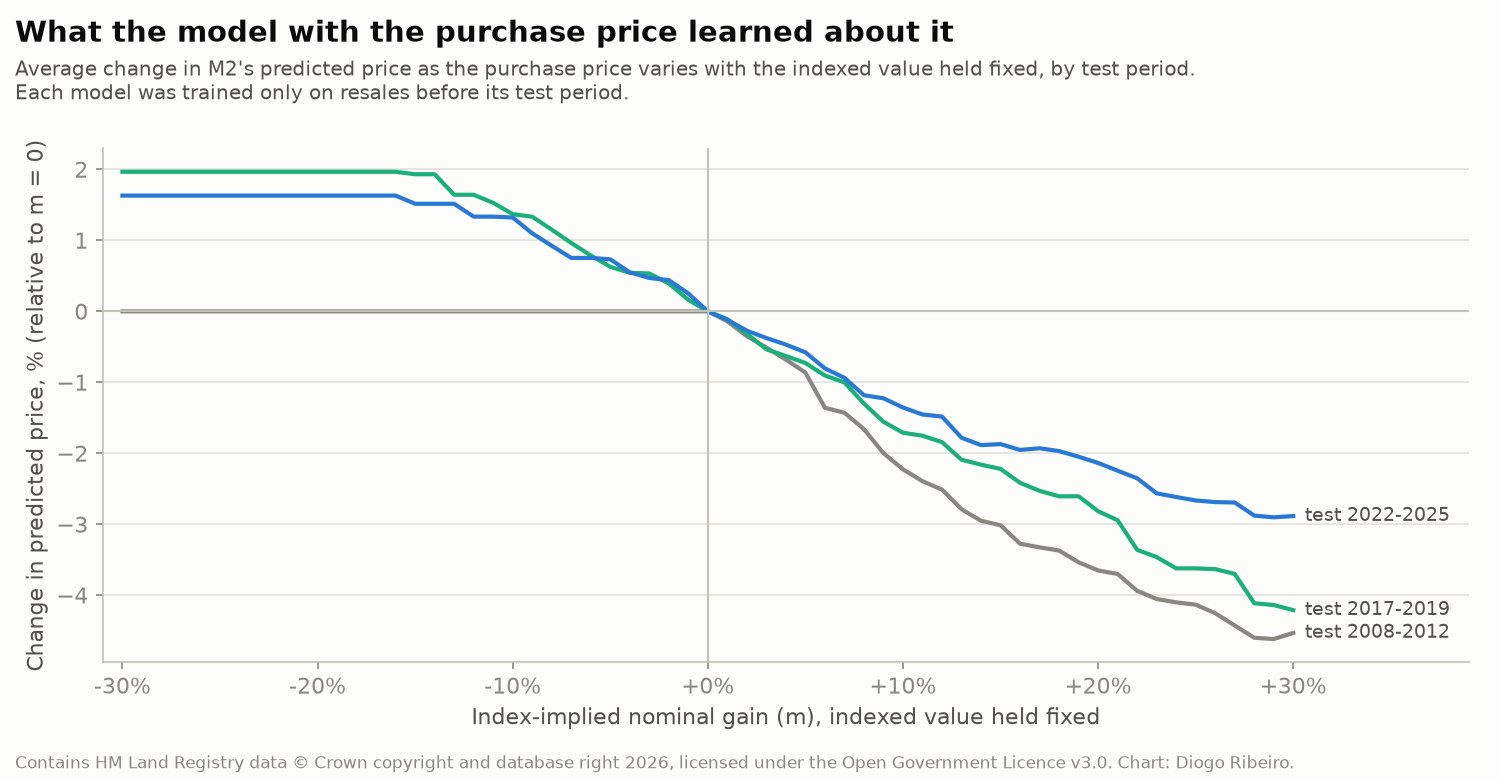
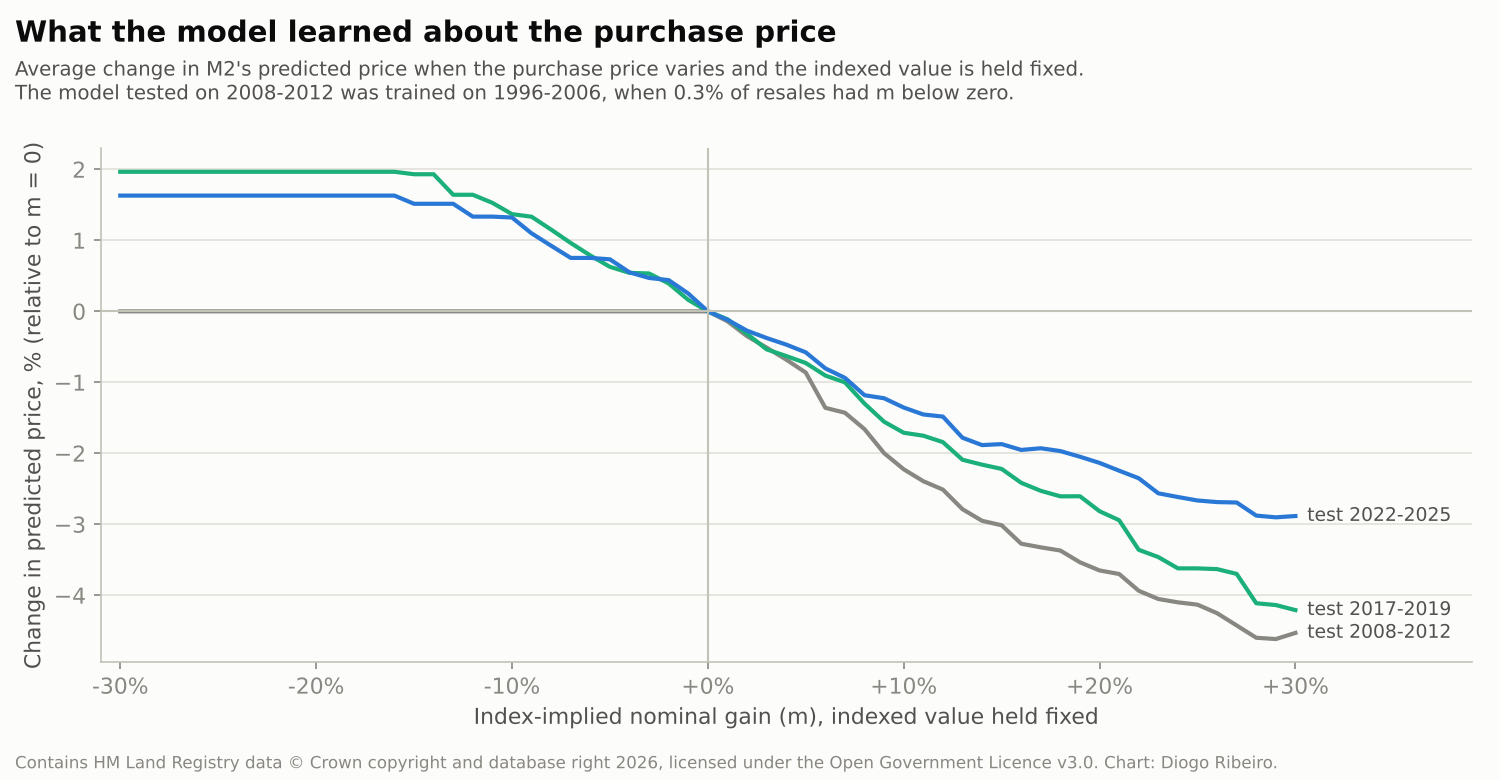
uk-valuation-purchase-price: three figures for the article (error by year, partial dependence on m, probability of a sale below the purchase price); README outputs

diff --git a/uk-valuation-purchase-price/figures.py b/uk-valuation-purchase-price/figures.py
@@ -67,30 +67,33 @@ def _curve(split: str, lo: int = -15, hi: int = 14) -> pd.DataFrame:
 
 
 # ----------------------------------------------------------------------------- fig 1
-def fig1_near_purchase_price():
-    """Observed shares just below, at and just above the old price, against an indexed model."""
-    fig, axes = plt.subplots(1, 2, figsize=(11, 4.8), sharey=True)
-    for ax, split in zip(axes, ["2008-2012", "2022-2025"]):
-        c = _curve(split)
-        ax.plot(c.x, 100 * c.obs_loss_within_2, color=ORANGE, label="Observed: within 2% below")
-        ax.plot(c.x, 100 * c["M0-dist_loss_within_2"], color=ORANGE, linestyle=(0, (4, 3)),
-                linewidth=1.6, label="Indexed valuation: within 2% below")
-        ax.plot(c.x, 100 * (c.obs_gain_within_2 + c.obs_exact), color=BLUE,
-                label="Observed: at or within 2% above")
-        ax.plot(c.x, 100 * c["M0-dist_gain_within_2"], color=BLUE, linestyle=(0, (4, 3)),
-                linewidth=1.6, label="Indexed valuation: within 2% above")
-        ax.set_title(f"Resales {split}", loc="left")
-        _xpct(ax)
-        _grid(ax)
-    axes[0].set_ylabel("Share of resales in each 1% band of m")
-    axes[0].yaxis.set_major_formatter(matplotlib.ticker.FuncFormatter(lambda v, _: f"{v:.0f}%"))
-    h, lab = axes[0].get_legend_handles_labels()
-    fig.legend(h, lab, loc="upper left", bbox_to_anchor=(0.01, 0.9), ncol=2, fontsize=9)
-    _titles(fig, "Sales land just above the purchase price more often than an indexed valuation implies",
-            "Share of resales within 2% below the old price, and at or within 2% above it, by the gain "
-            "the area index implies.\nDashed: the same shares implied by the index plus the spread of "
-            "its errors in the calibration year.")
-    _finish(fig, "fig1_near_purchase_price", top=0.72)
+def fig1_error_by_year():
+    met = pd.read_csv(RES / "metrics.csv")
+    met = met[met.group_type == "year"].assign(year=lambda d: d.group.astype(int))
+    fig, ax = plt.subplots(figsize=(10.5, 5.2))
+    styles = {"M0": (MUTED, "Indexed valuation (M0)"), "M1": (ORANGE, "Correction without m (M1)"),
+              "M2": (BLUE, "Correction with m (M2)")}
+    for split in ["2008-2012", "2017-2019", "2022-2025"]:
+        sub = met[met.split == split]
+        for model, (col, lab) in styles.items():
+            s_ = sub[sub.model == model].sort_values("year")
+            ax.plot(s_.year, 100 * s_.mdae, color=col, marker="o", ms=5,
+                    label=lab if split == "2008-2012" else None)
+        a, b = split.split("-")
+        ax.text((int(a) + int(b)) / 2, 11.75, f"trained to {int(a) - 2}", ha="center",
+                color=INK2, fontsize=9)
+    ax.set_ylabel("Median absolute error, %")
+    ax.set_ylim(8.0, 12.0)
+    ax.set_xticks(range(2008, 2026))
+    ax.set_xticklabels([str(y) if y in (2008, 2010, 2012, 2017, 2019, 2022, 2025) else ""
+                        for y in range(2008, 2026)])
+    ax.set_xlabel("Year of resale (test years only)")
+    _grid(ax)
+    ax.legend(loc="lower left", ncol=3, fontsize=9)
+    _titles(fig, "Out-of-time error of three valuation models, by year of resale",
+            "Each test period is valued by models trained only on earlier resales and calibrated on the "
+            "year before it.")
+    _finish(fig, "fig1_error_by_year", top=0.88)
 
 
 # ----------------------------------------------------------------------------- fig 2
@@ -108,69 +111,45 @@ def fig2_partial_dependence():
     ax.set_ylabel("Change in predicted price, % (relative to m = 0)")
     ax.set_xlim(-31, 39)
     _grid(ax)
-    _titles(fig, "What the model with the purchase price learned about it",
-            "Average change in M2's predicted price as the purchase price varies with the indexed value "
-            "held fixed, by test period.\nEach model was trained only on resales before its test period.")
+    _titles(fig, "What the model learned about the purchase price",
+            "Average change in M2's predicted price when the purchase price varies and the indexed value "
+            "is held fixed.\nThe model tested on 2008-2012 was trained on 1996-2006, when 0.3% of resales "
+            "had m below zero.")
     _finish(fig, "fig2_partial_dependence", top=0.84)
 
 
 # ----------------------------------------------------------------------------- fig 3
 def fig3_loss_probability():
-    fig, axes = plt.subplots(1, 2, figsize=(11, 4.8), sharey=True)
+    fig, axes = plt.subplots(1, 2, figsize=(11, 5.0), sharey=True)
+    lines = [("M0-dist", MUTED, "Indexed valuation + one error spread"),
+             ("M2-dist-h", BLUE, "M2 + error spread by holding period"),
+             ("C2", AQUA, "Classifier trained on earlier resales")]
     for ax, split in zip(axes, ["2008-2012", "2022-2025"]):
         c = _curve(split, -20, 19)
-        obs = 100 * (c.obs_loss_over_2 + c.obs_loss_within_2)
-        dist = 100 * (c["M0-dist_loss_over_2"] + c["M0-dist_loss_within_2"])
-        clf = 100 * (c["C2_loss_over_2"] + c["C2_loss_within_2"])
-        ax.scatter(c.x, obs, s=16, color=INK, zorder=3, label="Observed")
-        ax.plot(c.x, dist, color=BLUE, label="Indexed valuation + error distribution")
-        ax.plot(c.x, clf, color=ORANGE, label="Classifier trained on earlier sales")
+        c = c[c.n >= 1000]
+        ax.scatter(c.x, 100 * (c.obs_loss_over_2 + c.obs_loss_within_2), s=16, color=INK, zorder=3,
+                   label="Observed")
+        for key, col, lab in lines:
+            if f"{key}_loss_over_2" in c:
+                ax.plot(c.x, 100 * (c[f"{key}_loss_over_2"] + c[f"{key}_loss_within_2"]), color=col,
+                        label=lab)
         ax.set_title(f"Resales {split}", loc="left")
         _xpct(ax)
         _grid(ax)
     axes[0].set_ylabel("Share of resales below the purchase price")
     axes[0].yaxis.set_major_formatter(matplotlib.ticker.FuncFormatter(lambda v, _: f"{v:.0f}%"))
     h, lab = axes[0].get_legend_handles_labels()
-    fig.legend(h, lab, loc="upper left", bbox_to_anchor=(0.01, 0.885), ncol=3, fontsize=9)
+    fig.legend(h, lab, loc="upper left", bbox_to_anchor=(0.01, 0.875), ncol=2, fontsize=9)
     _titles(fig, "Predicting a sale below the purchase price",
-            "Observed share of resales below the old price, and two predictions of it, by the gain the "
-            "area index implies.")
-    _finish(fig, "fig3_loss_probability", top=0.78)
-
-
-# ----------------------------------------------------------------------------- fig 4
-def fig4_interval_coverage():
-    cov = pd.read_csv(RES / "coverage.csv")
-    bands = ["below -10%", "-10% to 0", "0 to +10%", "+10% to +25%", "above +25%"]
-    fig, axes = plt.subplots(1, 3, figsize=(11.5, 4.6), sharey=True)
-    for ax, split in zip(axes, ["2008-2012", "2017-2019", "2022-2025"]):
-        sub = cov[(cov.split == split) & (cov.group_type == "mband")]
-        x = np.arange(len(bands))
-        for k, (model, method, col, lab) in enumerate([
-                ("M1", "global", BLUE, "M1, one correction"),
-                ("M2", "global", ORANGE, "M2, one correction"),
-                ("M2", "mondrian", AQUA, "M2, one correction per band")]):
-            s = sub[(sub.model == model) & (sub.method == method)].set_index("group").reindex(bands)
-            ax.plot(x, 100 * s.coverage, color=col, marker="o", ms=5, label=lab)
-        ax.axhline(80, color=AXIS, linewidth=1)
-        ax.set_xticks(x, ["< -10%", "-10–0", "0–10%", "10–25%", "> 25%"], fontsize=8.5)
-        ax.set_title(f"Resales {split}", loc="left")
-        ax.set_xlabel("Band of m")
-        _grid(ax)
-    axes[0].set_ylabel("Coverage of the 80% interval")
-    axes[0].yaxis.set_major_formatter(matplotlib.ticker.FuncFormatter(lambda v, _: f"{v:.0f}%"))
-    h, lab = axes[0].get_legend_handles_labels()
-    fig.legend(h, lab, loc="upper left", bbox_to_anchor=(0.01, 0.885), ncol=3, fontsize=9)
-    _titles(fig, "Interval coverage by distance from the purchase price",
-            "Conformalised 80% intervals calibrated on the year before each test period.")
-    _finish(fig, "fig4_interval_coverage", top=0.78)
+            "Observed share of resales below the old price and three predictions of it, by the gain the "
+            "area index implies (1% bands with at least 1,000 resales).")
+    _finish(fig, "fig3_loss_probability", top=0.74)
 
 
 def main() -> int:
-    fig1_near_purchase_price()
+    fig1_error_by_year()
     fig2_partial_dependence()
     fig3_loss_probability()
-    fig4_interval_coverage()
     return 0
 
 

diff --git a/uk-valuation-purchase-price/README.md b/uk-valuation-purchase-price/README.md
@@ -22,6 +22,18 @@ python -m pytest -q tests
 
 `.github/workflows/uk-valuation-purchase-price-data.yml` runs the download, the build and the models on GitHub's runners and commits only aggregates: the area index, and the tables under `results/`. `.github/workflows/uk-valuation-purchase-price.yml` reruns the tests on synthetic data with a planted floor.
 
+## Outputs
+
+Only aggregates leave the runner.
+
+- `data/area_index.csv`: the monthly log index of each postcode area (105 areas, January 1995 to September 2026), smoothed with a penalty on the change in monthly growth. `data/area_year_median.csv`: median log price of all standard sales by area and year.
+- `results/metrics.csv`: median and mean absolute error, bias and share within 10%, by split, model and group (band of m, region, type, holding band, year, new-build first sale).
+- `results/coverage.csv`: coverage and width of the 80% intervals, with one conformal correction for all homes and with one per band of m.
+- `results/events.csv` and `results/curve_predicted.csv`: observed and predicted shares of sales more than 2% below, within 2% below, at exactly, within 2% above and more than 2% above the purchase price. Predictions come from the point models plus the calibration year's error distribution (one distribution, or one per holding band) and from a five-class classifier.
+- `results/pdp_m.csv`: partial dependence of M2 on m with the indexed value fixed. `results/importance.csv`: gain share of each input.
+- `results/curve_observed.csv` and `results/discontinuity.csv`: M0's error by 1% band of m, and local linear estimates of a jump or change of slope at m = 0 and at placebo values, with holding band x year effects removed and standard errors clustered by area and year.
+- `results/summary.txt`: every number used in the article (`analysis.py`). `figures/`: the three figures (`figures.py`).
+
 ## Data
 
 **HM Land Registry Price Paid Data**, complete file. Contains HM Land Registry data © Crown copyright and database right 2026. This data is licensed under the Open Government Licence v3.0. The file carries full addresses, so it is never committed, and neither are the pairs built from it.
